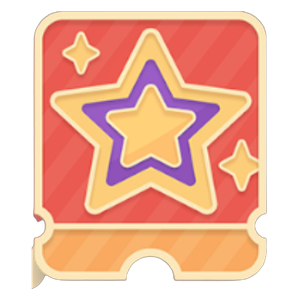
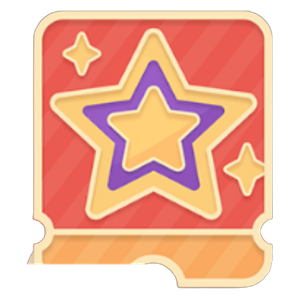
実績バッジの切り抜きをさらに精密に再修正 (#14)
* 実績バッジの切り抜きをさらに精密に再修正

前回のテンプレート方式でも、装飾の混入と本来の輪郭の欠けが
依然として残っていた。元スクショを実際のカード背景と1px単位で
比較し、カード自体にはリボンの「しっぽ」のような装飾は存在せず
（丸い角で滑らかに終わっている）、以前残していた「しっぽ」は
月桂樹の葉だったことを確認。

既に正しいと検証済みの1件（虫の司令官）の行単位の輪郭を、
同じUIテンプレートを共有する他のバッジに転写するスタンプ方式に
変更し、本来の輪郭を完全に再現。台座なし丸底タイプ（スター
ダストコレクター・名手の第一歩）は別の検証済みバッジから輪郭を
転写。解像度の異なる元画像（弛まぬ筆）は、装飾と完全に融合して
透過情報が失われた領域を、検証済みの輪郭を正しい倍率・位置で
当てはめて復元。

Claude-Session: https://claude.ai/code/session_01K3eMRAeT6oYS9BRu22swvm

* キャッシュバージョンを更新

Claude-Session: https://claude.ai/code/session_01K3eMRAeT6oYS9BRu22swvm

---------

Changed region(s): [[0.09, 0.03, 0.93, 0.99], [0.21, 0.09, 0.3, 0.21], [0.12, 0.06, 0.15, 0.09]]

diff --git a/service-worker.js b/service-worker.js
@@ -1,5 +1,5 @@
 // キャッシュ名（更新時はバージョンを上げる）
-const CACHE_NAME = "hatopi-v2.602.0";
+const CACHE_NAME = "hatopi-v2.603.0";
 
 // キャッシュするファイル一覧
 const CACHE_FILES = [
